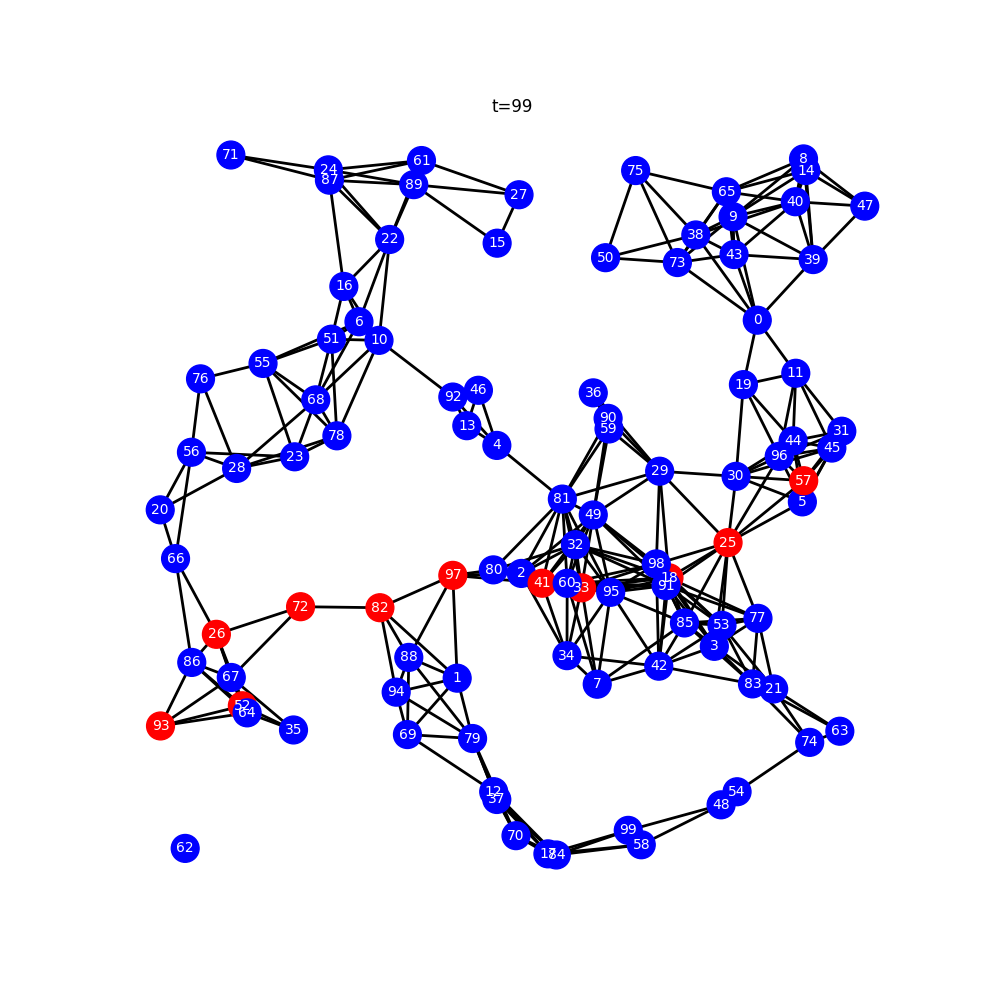
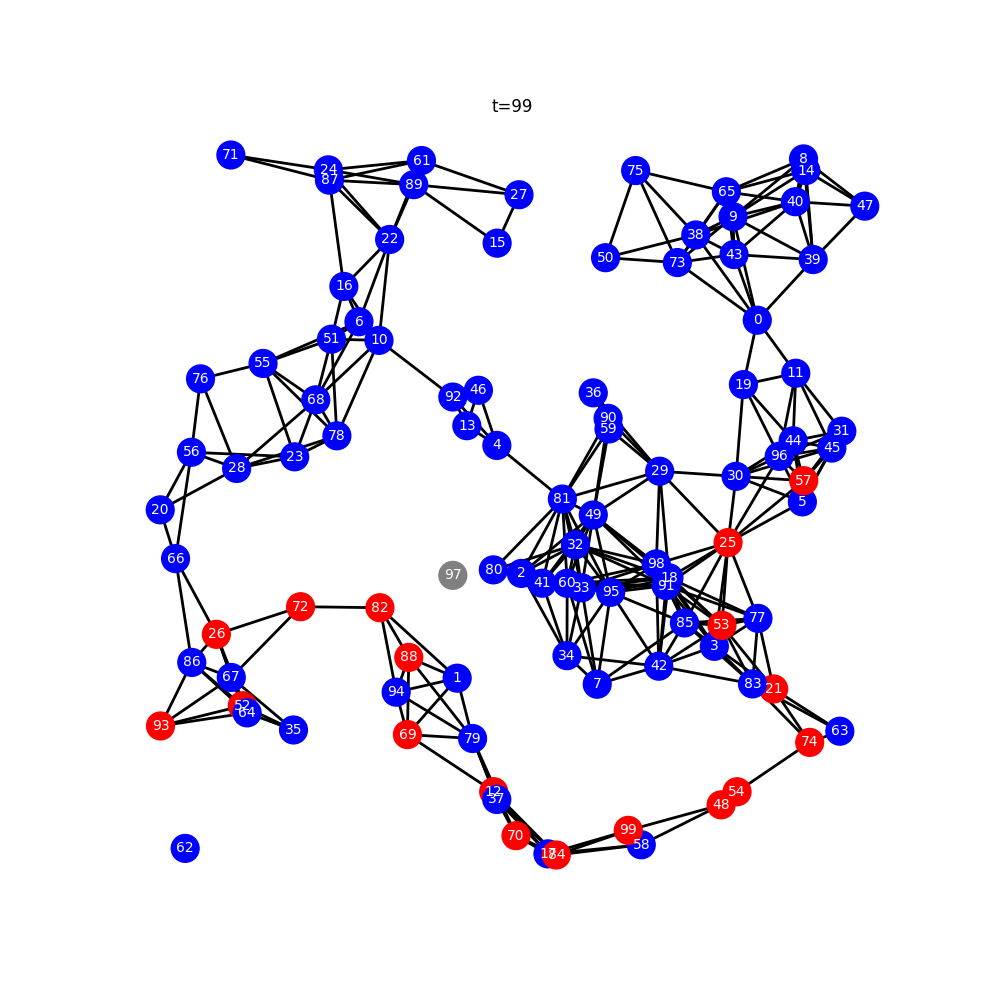
バッテリー残量を減少させるように修正

diff --git a/con/slime_node.py b/con/slime_node.py
@@ -19,19 +19,26 @@ class slime_node(node):  # ノードの情報や処理
     self.flatting_request_packet = []
 
   def connect_links(self, nodes):
+    if not self.is_active:  # アクティブでない場合，以下の処理を行わない．
+      return
+
+    self.energy -= self.use_energy  # 通信を行うため，バッテリー残量を減少させる．
+
     self.neighbor = []
+
     for _node in nodes:
-      if _node is self:
+      if _node is self or not _node.is_active:  # 自分自身または，処理対象ノードがアクティブでなければ以下の処理を行わない．
         continue
-      if self.position.distance(_node.position) < self.communication_range:
-        self.neighbor.append(_node)
-        if not _node.content_store:
-          continue
-        for content_id in _node.content_store.keys():
-          if not self.slimes or content_id not in self.slimes:
-            self.slimes[content_id] = slime(self, _node.position)
-          else:
-            self.slimes[content_id].content_position = _node.position
+      if self.position.distance(_node.position) > self.communication_range:  # 通信可能距離以内でなければ，以下の処理を行わない．
+        continue
+      self.neighbor.append(_node)
+      if not _node.content_store:  # コンテンツストアが空の場合，以下の処理を行わない．
+        continue
+      for content_id in _node.content_store.keys():
+        if not self.slimes or content_id not in self.slimes:  # 自身のスライムが存在しないまたは，自身のスライムが存在していてもcontent_idが存在しない場合，
+          self.slimes[content_id] = slime(self, _node.position)
+        else:
+          self.slimes[content_id].content_position = _node.position
     return
 
   def set_content(self, content):
@@ -228,6 +235,8 @@ class slime_node(node):  # ノードの情報や処理
   def send_packet(self):
     if self.packet is None:  # パケットが破棄されている場合以下の処理を行わない
       return
+
+    self.energy -= self.use_energy  # 通信を行うため，バッテリー残量を減少させる．
 
     flag_send_data_packet = False
     if type(self.packet) is data_packet:  # パケットがdataパケットの時

diff --git a/con/node.py b/con/node.py
@@ -10,11 +10,13 @@ class node:  # ノードの情報や処理
   que = queue.Queue()
 
   def __init__(self, number):
+    self.is_active = True  # コンテンツが起動しているかどうか？
     self.number = number
     self.position = position(0, 0)
     self.neighbor = []
     self.energy = 1
     self.buffer = 1
+    self.use_energy = 0.002
     self.content_store = {}
     self.pit = {}
     self.fib = {}
@@ -27,13 +29,23 @@ class node:  # ノードの情報や処理
     self.get_content_time = {}
     self.packet_type = ""
 
+  def check_is_active(self):
+    self.is_active = bool(self.energy > 0)
+    return
+
   def connect_links(self, nodes):
+    if not self.is_active:  # アクティブでない場合，以下の処理を行わない．
+      return
+
+    self.energy -= self.use_energy  # 通信を行うため，バッテリー残量を減少させる．
+
     self.neighbor = []
     for _node in nodes:
-      if _node is self:
+      if _node is self or not _node.is_active:  # 対象ノードが自分自身または，対象ノードが非アクティブの場合，以下の処理を行わない．
         continue
-      if self.position.distance(_node.position) < self.communication_range:
-        self.neighbor.append(_node)
+      if self.position.distance(_node.position) > self.communication_range:  # 対象ノードが通信可能距離以外の場合は，以下の処理を行わない．
+        continue
+      self.neighbor.append(_node)
     return
 
   def move(self):
@@ -89,12 +101,14 @@ class node:  # ノードの情報や処理
   def send_hello(self, nodes):
     if self.packet is None:  # パケットが破棄されている場合以下の処理を行わない
       return
+    self.energy -= self.use_energy  # 通信を行うため，バッテリー残量を減少させる．
     self.neighbor = []
     for _node in nodes:
-      if _node is self:
+      if _node is self or not _node.is_active:
         continue
-      if self.position.distance(_node.position) < self.communication_range:
-        self.neighbor.append(_node)
+      if self.position.distance(_node.position) > self.communication_range:
+        continue
+      self.neighbor.append(_node)
     return
 
   def select_next(self):

diff --git a/con/pbr_node.py b/con/pbr_node.py
@@ -139,6 +139,8 @@ class pbr_node(node):  # ノードの情報や処理
     if self.packet is None:  # パケットが破棄されている場合以下の処理を行わない
       return
 
+    self.energy -= self.use_energy  # 通信を行うため，バッテリー残量を減少させる．
+
     flag_send_data_packet = False
     if type(self.packet) is data_packet:  # パケットがdataパケットの時
       if not self.packet.living_time:
